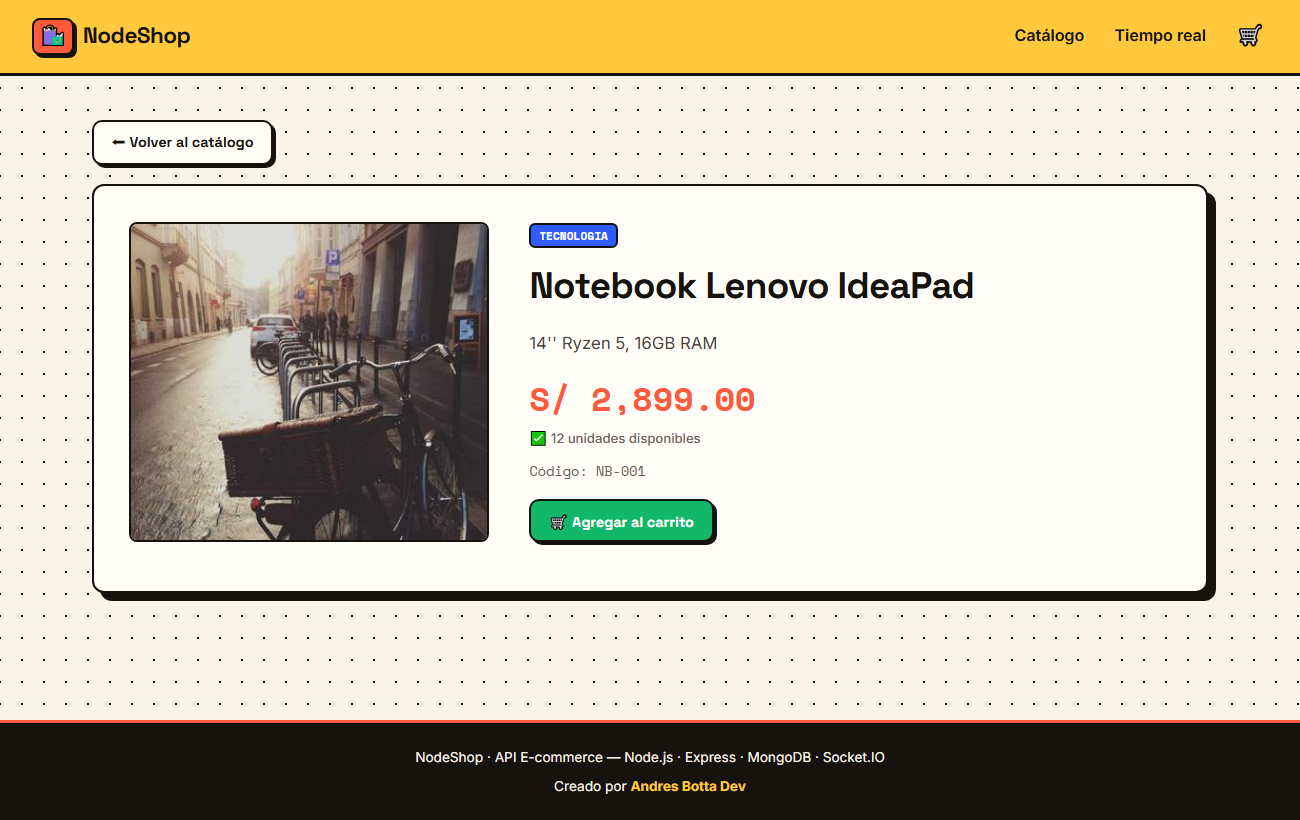
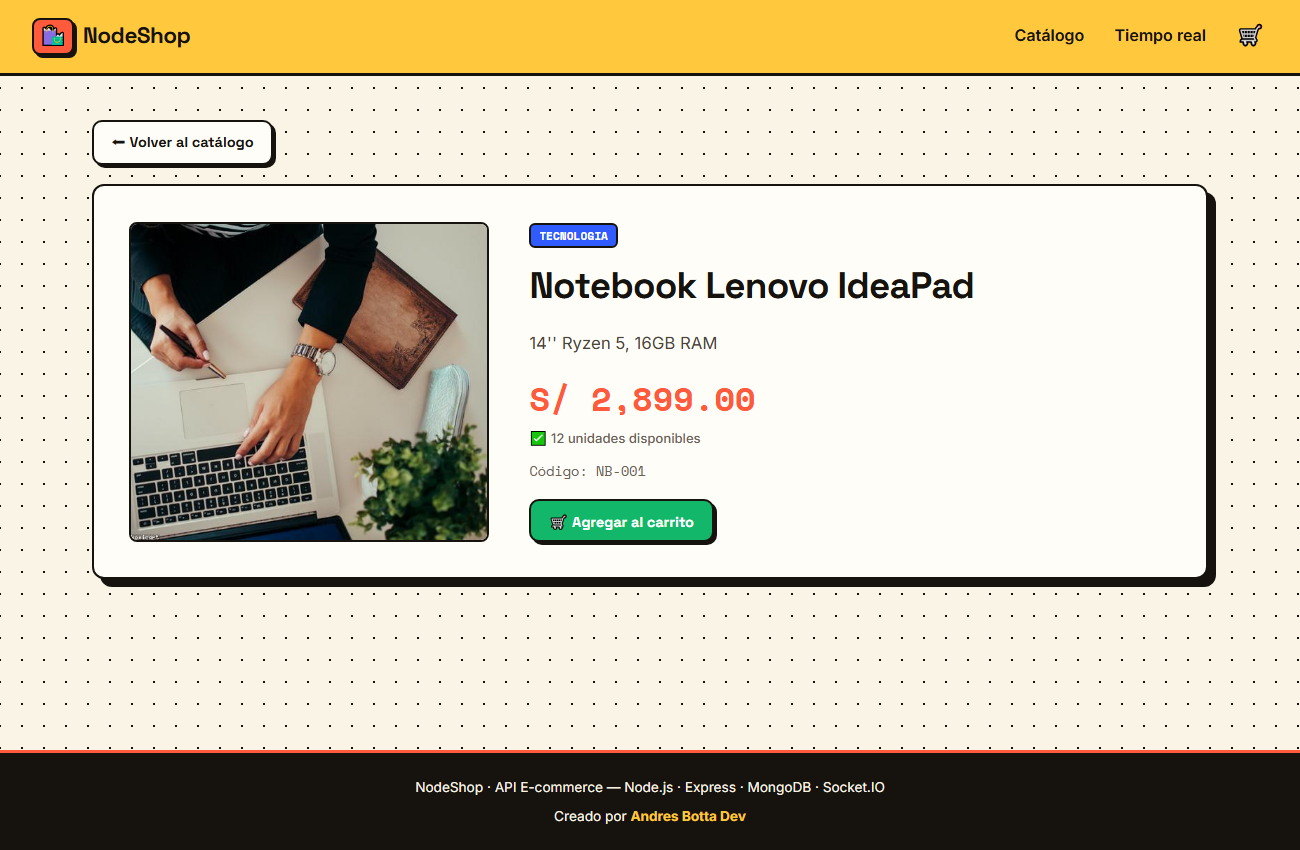
Mejoras UI: imagenes acordes al producto (LoremFlickr por keyword), hero, etiqueta sobre imagen y pills de stock

diff --git a/src/public/css/styles.css b/src/public/css/styles.css
@@ -103,6 +103,58 @@ h1 { font-size: 2.3rem; font-weight: 700; margin-bottom: 0.3rem; }
 h2 { font-weight: 700; }
 .subtitle { color: var(--muted); margin-bottom: 2rem; font-weight: 500; }
 
+/* ---------- Hero ---------- */
+.hero {
+  display: flex;
+  justify-content: space-between;
+  align-items: center;
+  gap: 1.5rem;
+  background: var(--coral);
+  color: #fff;
+  border: 3px solid var(--ink);
+  border-radius: var(--radius);
+  box-shadow: var(--shadow-lg);
+  padding: 2.2rem;
+  margin-bottom: 0.5rem;
+  flex-wrap: wrap;
+}
+.hero h1 { font-size: 2.6rem; line-height: 1.05; color: #fff; }
+.hero .hl {
+  background: var(--yellow);
+  color: var(--ink);
+  padding: 0 0.3rem;
+  border: 2px solid var(--ink);
+  border-radius: 6px;
+  box-shadow: var(--shadow-sm);
+  display: inline-block;
+}
+.hero .subtitle { color: #fff; opacity: 0.95; margin: 0.9rem 0 0; }
+.hero-tag {
+  display: inline-block;
+  background: var(--ink);
+  color: #fff;
+  font-family: "Space Mono", monospace;
+  font-size: 0.74rem;
+  font-weight: 700;
+  padding: 0.25rem 0.7rem;
+  border-radius: 999px;
+  margin-bottom: 1rem;
+}
+.hero-stat {
+  background: var(--paper-2);
+  color: var(--ink);
+  border: 3px solid var(--ink);
+  border-radius: var(--radius);
+  box-shadow: var(--shadow);
+  padding: 1.2rem 1.6rem;
+  text-align: center;
+  display: flex;
+  flex-direction: column;
+  align-items: center;
+}
+.hero-stat strong { font-family: "Space Grotesk"; font-size: 2.6rem; line-height: 1; }
+.hero-stat span { font-family: "Space Mono", monospace; font-size: 0.72rem; text-transform: uppercase; margin-top: 0.3rem; }
+
 /* ---------- Toolbar / filtros ---------- */
 .toolbar {
   display: flex;
@@ -145,14 +197,28 @@ h2 { font-weight: 700; }
   transition: transform 0.12s ease, box-shadow 0.12s ease;
 }
 .card:hover { transform: translate(-3px, -3px); box-shadow: var(--shadow-lg); }
+.card-media { position: relative; margin-bottom: 0.9rem; }
 .card-img, .detail-img {
   width: 100%;
-  height: 170px;
+  height: 180px;
   object-fit: cover;
   border: var(--border);
   border-radius: 8px;
-  margin-bottom: 0.9rem;
+  display: block;
 }
+.badge-cat.overlay { position: absolute; top: 8px; left: 8px; margin: 0; box-shadow: var(--shadow-sm); }
+.card-meta { display: flex; align-items: center; justify-content: space-between; gap: 0.5rem; margin-bottom: 0.9rem; }
+.pill {
+  font-family: "Space Mono", monospace;
+  font-size: 0.7rem;
+  font-weight: 700;
+  padding: 0.18rem 0.5rem;
+  border: 2px solid var(--ink);
+  border-radius: 999px;
+  white-space: nowrap;
+}
+.pill.in { background: #d9f7e6; color: #0b7a45; }
+.pill.out { background: #ffe0de; color: var(--danger); }
 .placeholder {
   display: flex; align-items: center; justify-content: center;
   background: repeating-linear-gradient(45deg, #fff, #fff 10px, var(--yellow) 10px, var(--yellow) 20px);

diff --git a/src/utils/seed.js b/src/utils/seed.js
@@ -5,19 +5,23 @@ const config = require("../config/config");
 const ProductModel = require("../dao/models/product.model");
 
 // Precios en Soles peruanos (PEN), valores de referencia del mercado local.
+// Las imágenes provienen de LoremFlickr por palabra clave (acordes al producto).
+const img = (keyword, lock) =>
+  `https://loremflickr.com/600/450/${keyword}?lock=${lock}`;
+
 const sampleProducts = [
-  { title: "Notebook Lenovo IdeaPad", description: "14'' Ryzen 5, 16GB RAM", code: "NB-001", price: 2899, status: true, stock: 12, category: "tecnologia", thumbnails: ["https://picsum.photos/seed/nb1/400/300"] },
-  { title: "Mouse Logitech M170", description: "Mouse inalámbrico", code: "MS-002", price: 49, status: true, stock: 80, category: "accesorios", thumbnails: ["https://picsum.photos/seed/ms2/400/300"] },
-  { title: "Teclado Mecánico Redragon", description: "Switch red, RGB", code: "TC-003", price: 159, status: true, stock: 30, category: "accesorios", thumbnails: ["https://picsum.photos/seed/tc3/400/300"] },
-  { title: "Monitor Samsung 24''", description: "Full HD 75Hz", code: "MO-004", price: 599, status: true, stock: 18, category: "tecnologia", thumbnails: ["https://picsum.photos/seed/mo4/400/300"] },
-  { title: "Auriculares HyperX Cloud", description: "Gaming con micrófono", code: "AU-005", price: 279, status: true, stock: 25, category: "audio", thumbnails: ["https://picsum.photos/seed/au5/400/300"] },
-  { title: "Webcam Logitech C920", description: "1080p", code: "WC-006", price: 329, status: false, stock: 0, category: "tecnologia", thumbnails: ["https://picsum.photos/seed/wc6/400/300"] },
-  { title: "SSD Kingston 480GB", description: "SATA III", code: "SD-007", price: 189, status: true, stock: 40, category: "componentes", thumbnails: ["https://picsum.photos/seed/sd7/400/300"] },
-  { title: "Silla Gamer", description: "Reclinable, ergonómica", code: "SL-008", price: 799, status: true, stock: 10, category: "muebles", thumbnails: ["https://picsum.photos/seed/sl8/400/300"] },
-  { title: "Parlante JBL Go 3", description: "Bluetooth portátil", code: "PL-009", price: 199, status: true, stock: 50, category: "audio", thumbnails: ["https://picsum.photos/seed/pl9/400/300"] },
-  { title: "Pendrive SanDisk 64GB", description: "USB 3.0", code: "PD-010", price: 39, status: true, stock: 100, category: "componentes", thumbnails: ["https://picsum.photos/seed/pd10/400/300"] },
-  { title: "Router TP-Link AX1500", description: "WiFi 6", code: "RT-011", price: 239, status: true, stock: 22, category: "redes", thumbnails: ["https://picsum.photos/seed/rt11/400/300"] },
-  { title: "Cámara Web 4K", description: "Autofoco", code: "CW-012", price: 419, status: true, stock: 8, category: "tecnologia", thumbnails: ["https://picsum.photos/seed/cw12/400/300"] },
+  { title: "Notebook Lenovo IdeaPad", description: "14'' Ryzen 5, 16GB RAM", code: "NB-001", price: 2899, status: true, stock: 12, category: "tecnologia", thumbnails: [img("laptop,computer", 11)] },
+  { title: "Mouse Logitech M170", description: "Mouse inalámbrico", code: "MS-002", price: 49, status: true, stock: 80, category: "accesorios", thumbnails: [img("computer,mouse", 22)] },
+  { title: "Teclado Mecánico Redragon", description: "Switch red, RGB", code: "TC-003", price: 159, status: true, stock: 30, category: "accesorios", thumbnails: [img("keyboard", 33)] },
+  { title: "Monitor Samsung 24''", description: "Full HD 75Hz", code: "MO-004", price: 599, status: true, stock: 18, category: "tecnologia", thumbnails: [img("monitor,screen", 44)] },
+  { title: "Auriculares HyperX Cloud", description: "Gaming con micrófono", code: "AU-005", price: 279, status: true, stock: 25, category: "audio", thumbnails: [img("headphones", 55)] },
+  { title: "Webcam Logitech C920", description: "1080p", code: "WC-006", price: 329, status: false, stock: 0, category: "tecnologia", thumbnails: [img("webcam", 66)] },
+  { title: "SSD Kingston 480GB", description: "SATA III", code: "SD-007", price: 189, status: true, stock: 40, category: "componentes", thumbnails: [img("ssd,harddrive", 77)] },
+  { title: "Silla Gamer", description: "Reclinable, ergonómica", code: "SL-008", price: 799, status: true, stock: 10, category: "muebles", thumbnails: [img("gaming,chair", 88)] },
+  { title: "Parlante JBL Go 3", description: "Bluetooth portátil", code: "PL-009", price: 199, status: true, stock: 50, category: "audio", thumbnails: [img("speaker", 99)] },
+  { title: "Pendrive SanDisk 64GB", description: "USB 3.0", code: "PD-010", price: 39, status: true, stock: 100, category: "componentes", thumbnails: [img("usb,flashdrive", 101)] },
+  { title: "Router TP-Link AX1500", description: "WiFi 6", code: "RT-011", price: 239, status: true, stock: 22, category: "redes", thumbnails: [img("router,wifi", 111)] },
+  { title: "Cámara Web 4K", description: "Autofoco", code: "CW-012", price: 419, status: true, stock: 8, category: "tecnologia", thumbnails: [img("camera", 121)] },
 ];
 
 const seed = async () => {

diff --git a/src/routes/views.router.js b/src/routes/views.router.js
@@ -44,6 +44,7 @@ router.get("/products", async (req, res, next) => {
       sort: sort || "",
       query: query || "",
       limit: Number(limit),
+      totalDocs: result.totalDocs,
     });
   } catch (error) {
     next(error);